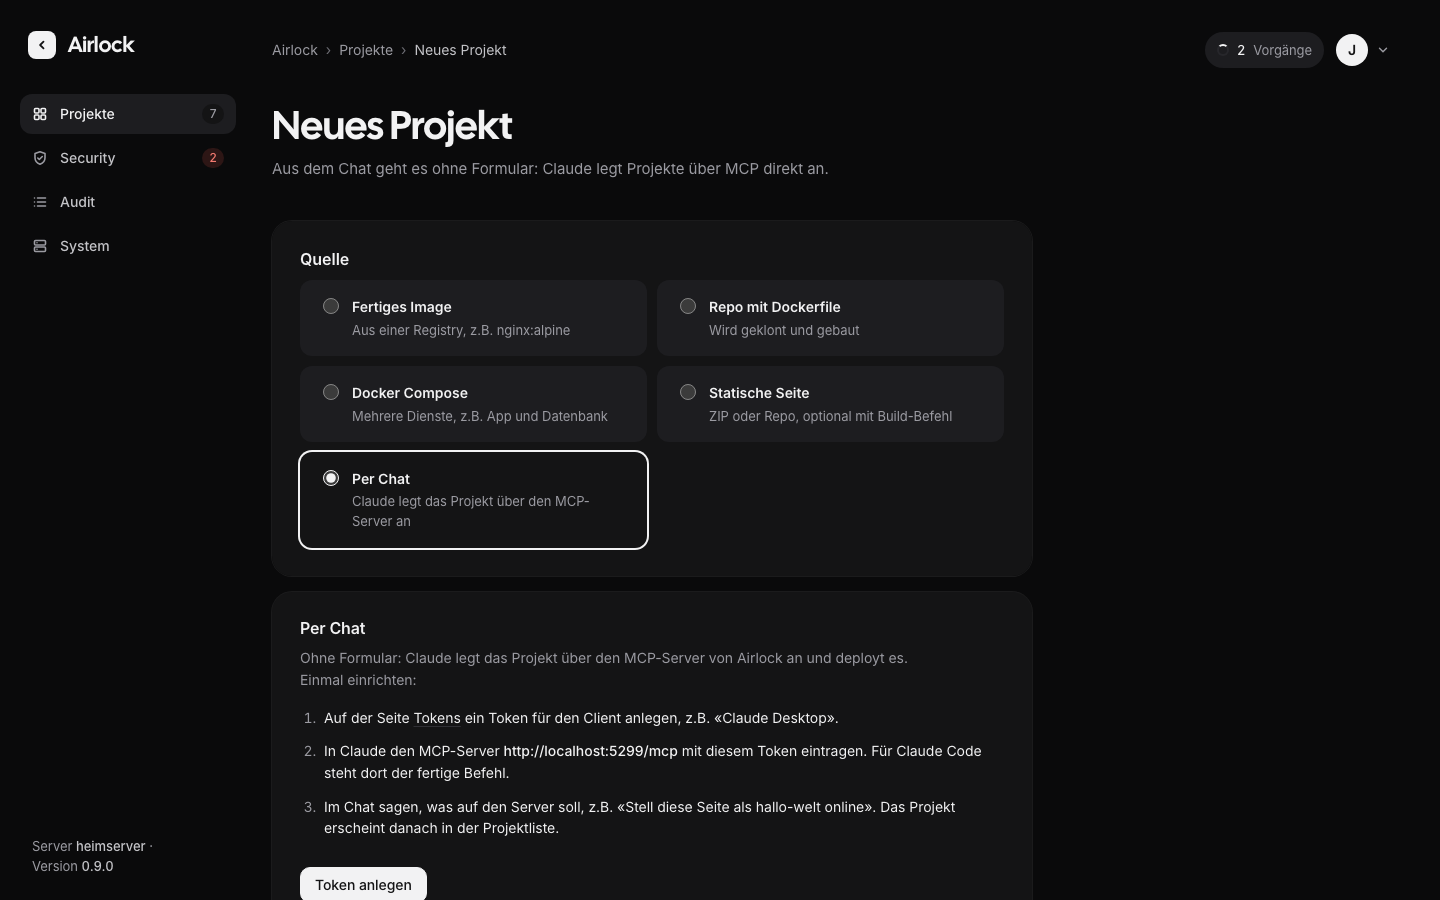
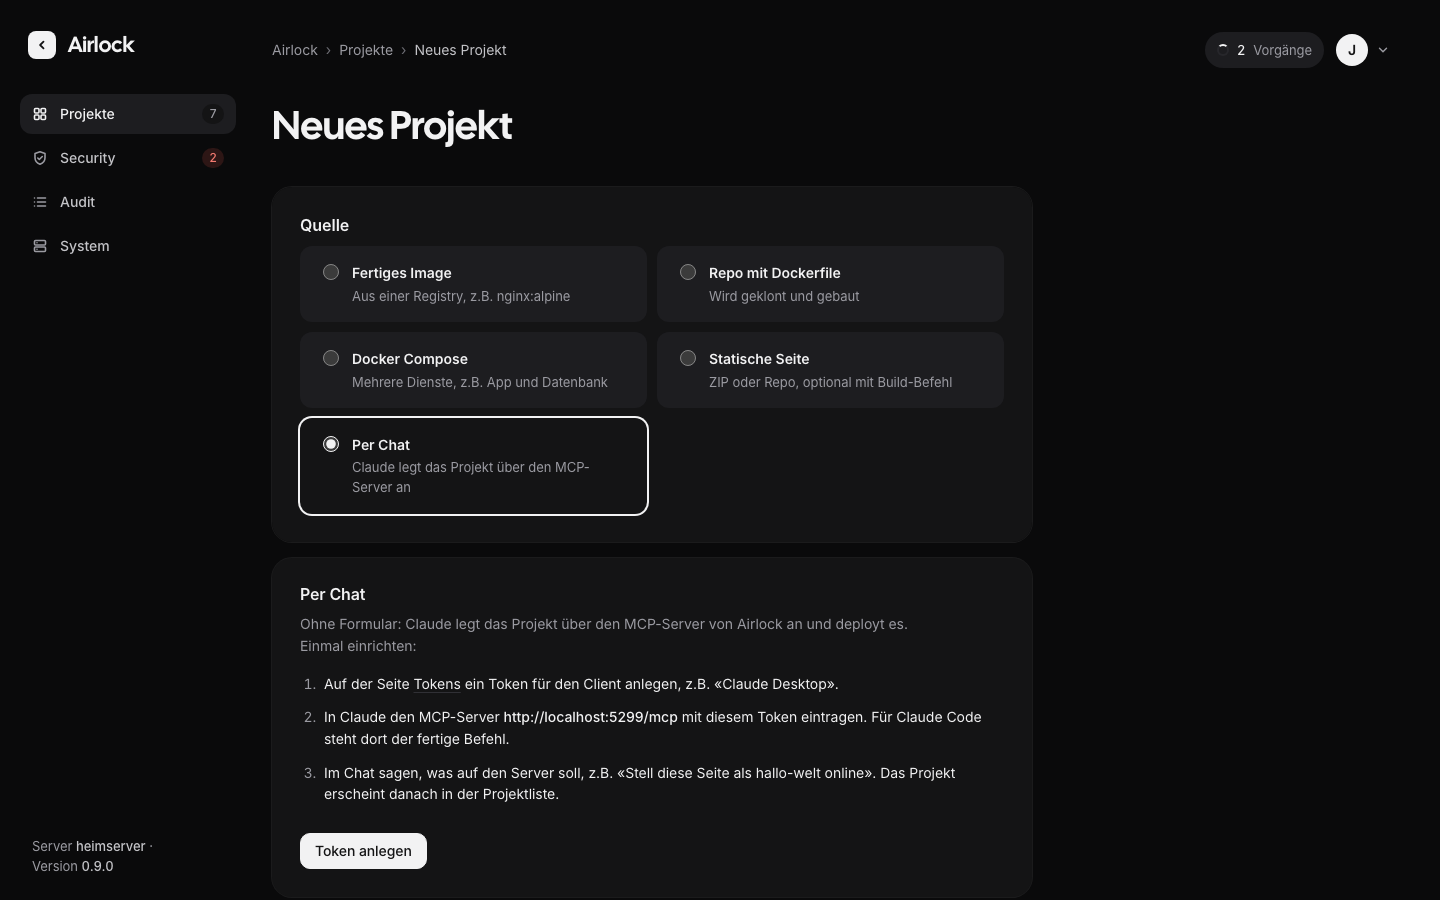
UI-Qualität 5: Befunde aus dem Gutachten
- Fortschritt nach dem Anlegen nicht erneut nach Neuladen/Zurück; Text beim ersten Deploy
- Prüfung beim Verlassen nicht beim Wechsel auf einen Knopf
- Pfadfelder mit passenden Beispielen in der Meldung
- Kollision auch über belegte Adressen; 409 bei gleichzeitigem Anlegen; «name-preview» reserviert
- Vorschau ohne Live-Region, angesagt nur Kollisionen; keine veraltete Antwort
- «Per Chat» ohne doppelten Einleitungssatz

Geänderte Bilder (hell und dunkel): neues-projekt-chat (Einleitungssatz entfällt)

diff --git a/packages/web/src/pages/NewProject.tsx b/packages/web/src/pages/NewProject.tsx
@@ -46,33 +46,51 @@ function useNamePreview(name: string) {
   return useQuery({
     queryKey: ['name-preview', debounced],
     queryFn: () => api.namePreview(debounced),
-    enabled: debounced !== '' && slugify(debounced) !== '',
-    staleTime: 10_000,
+    // slugify fällt nie auf leer zurück («???» → «projekt», wie beim Anlegen); geprüft wird nur der leere Name
+    enabled: debounced !== '',
+    // Kurz frisch halten: ein anderes Projekt (z.B. von Claude) kann den Namen inzwischen belegen
+    staleTime: 2_000,
     placeholderData: (prev) => prev,
   })
 }
 
-/** Unter dem Namen: Kurzname, Adresse, und ob der Kurzname schon belegt ist */
+/**
+ * Unter dem Namen: Kurzname, Adresse, und ob der Kurzname schon belegt ist.
+ * Der Hinweis selbst ist keine Live-Region (er gehört per aria-describedby zum
+ * Feld); angesagt wird nur eine Kollision, in einer eigenen, immer
+ * vorhandenen Region.
+ */
 function NamePreview({ name, id }: { name: string; id: string }) {
   const q = useNamePreview(name)
-  const p = q.data?.preview
-  if (!name.trim() || !slugify(name)) return <p className="hint" id={id}>Frei wählbar; daraus entstehen Kurzname und Adresse.</p>
-  if (!p) return <p className="hint" id={id}>Kurzname <code>{slugify(name)}</code> …</p>
-  const url = p.urls[0]
+  // Solange die Antwort zum alten Namen gehört: nicht als Ergebnis zeigen
+  const p = q.isPlaceholderData || q.data?.preview.wanted !== slugify(name.trim()) ? null : q.data?.preview
+  const conflict = p && (p.takenBy || p.reserved || p.hostTaken)
+  const said = !p ? '' : p.reserved ? `Kurzname ${p.wanted} ist reserviert, das Projekt bekommt ${p.slug}.`
+    : p.takenBy ? `Kurzname ${p.wanted} hat schon ${p.takenBy.name}, das Projekt bekommt ${p.slug}.`
+    : p.hostTaken ? `Die Adresse von ${p.wanted} ist schon belegt, das Projekt bekommt ${p.slug}.` : ''
+  const url = p?.urls[0]
   return (
-    <div className="hint name-preview" id={id} role="status">
-      {p.takenBy || p.reserved ? (
-        <p>
-          <IconWarn /> {p.reserved
-            ? <>Der Kurzname <code>{p.wanted}</code> ist für Airlock reserviert.</>
-            : <>Den Kurznamen <code>{p.wanted}</code> hat schon <Link to={`/projekte/${p.takenBy!.id}`}>{p.takenBy!.name}</Link>.</>}
-          {' '}{p.slug ? <>Dieses Projekt bekommt <code>{p.slug}</code> – oder wähle einen anderen Namen.</> : 'Wähle einen anderen Namen.'}
-        </p>
-      ) : (
-        <p>Kurzname <code>{p.slug}</code></p>
-      )}
-      {url && <p>Adresse <code>{url.replace(/^https?:\/\//, '')}</code>{p.urls.length > 1 && <span className="muted"> · auch {p.urls.slice(1).map((u) => u.replace(/^https?:\/\//, '')).join(', ')}</span>}</p>}
-    </div>
+    <>
+      <p className="sr-only" role="status">{said}</p>
+      {!name.trim() ? <p className="hint" id={id}>Frei wählbar; daraus entstehen Kurzname und Adresse.</p>
+        : !p ? <p className="hint" id={id}>Kurzname <code>{slugify(name)}</code> …</p>
+        : (
+          <div className="hint name-preview" id={id}>
+            {conflict ? (
+              <p>
+                <IconWarn /> {p.reserved
+                  ? <>Der Kurzname <code>{p.wanted}</code> ist für Airlock reserviert.</>
+                  : p.takenBy ? <>Den Kurznamen <code>{p.wanted}</code> hat schon <Link to={`/projekte/${p.takenBy.id}`}>{p.takenBy.name}</Link>.</>
+                  : <>Die Adresse von <code>{p.wanted}</code> trägt schon ein anderes Projekt.</>}
+                {' '}{p.slug ? <>Dieses Projekt bekommt <code>{p.slug}</code> – oder wähle einen anderen Namen.</> : 'Wähle einen anderen Namen.'}
+              </p>
+            ) : (
+              <p>Kurzname <code>{p.slug}</code></p>
+            )}
+            {url && <p>Adresse <code>{url.replace(/^https?:\/\//, '')}</code>{p.urls.length > 1 && <span className="muted"> · auch {p.urls.slice(1).map((u) => u.replace(/^https?:\/\//, '')).join(', ')}</span>}</p>}
+          </div>
+        )}
+    </>
   )
 }
 
@@ -169,7 +187,8 @@ export function NewProject() {
   return (
     <section className="page page-narrow">
       <PageHead crumbs={[{ label: 'Projekte', to: '/projekte' }, { label: 'Neues Projekt' }]} title="Neues Projekt">
-        <p className="lede">Aus dem Chat geht es ohne Formular: Claude legt Projekte über MCP direkt an.</p>
+        {/* Bei «Per Chat» steht dasselbe im Abschnitt darunter */}
+        {kind !== 'chat' && <p className="lede">Aus dem Chat geht es ohne Formular: Claude legt Projekte über MCP direkt an.</p>}
       </PageHead>
 
       <form onSubmit={submit} className="form" noValidate ref={form.formRef}>

diff --git a/packages/shared/src/index.ts b/packages/shared/src/index.ts
@@ -24,7 +24,8 @@ export const UI_HOST_LABEL = 'deployer'
  * (sonst hätte ein Projekt sie überdeckt – Fehler aus M1), "airlock" ihre
  * künftige Adresse, "ext-scan" das Netz für Scans externer Ziele (M6).
  */
-export const RESERVED_SLUGS = ['deployer', 'airlock', 'ext-scan'] as const
+// 'name-preview': GET /projects/name-preview würde sonst ein Projekt dieses Namens verdecken
+export const RESERVED_SLUGS = ['deployer', 'airlock', 'ext-scan', 'name-preview'] as const
 
 export const slugSchema = z
   .string()
@@ -118,13 +119,22 @@ export const gitRefSchema = z
   .regex(/^[A-Za-z0-9._][A-Za-z0-9._/-]*$/, 'Nur Buchstaben, Ziffern und . _ / -, nicht mit - beginnend, z.B. main oder v1.2.0')
   .refine((v) => !v.includes('..'), 'Zwei Punkte hintereinander sind nicht erlaubt, z.B. v1.2.0 statt v1..2')
 
-/** Pfad innerhalb eines Repos; ob er drin bleibt, prüft der Server am aufgelösten Pfad. */
-export const repoPathSchema = z
+/**
+ * Pfad innerhalb eines Repos; ob er drin bleibt, prüft der Server am aufgelösten Pfad.
+ * UI-Qualität 5: die Beispiele der Meldungen passen zum Feld (wie Platzhalter und Hinweis).
+ */
+const repoPath = (what: string, example: string) => z
   .string()
   .trim()
-  .min(1, 'Gib einen Pfad im Repo an, z.B. Dockerfile oder app/compose.yaml')
+  .min(1, `Gib ${what} an, z.B. ${example}`)
   .max(512, 'Höchstens 512 Zeichen')
-  .refine((v) => !v.includes('\0') && !v.startsWith('/') && !v.includes('\\'), 'Gib den Pfad relativ zum Repo an, ohne / am Anfang, z.B. docker/Dockerfile')
+  .refine((v) => !v.includes('\0') && !v.startsWith('/') && !v.includes('\\'), `Gib den Pfad relativ zum Repo an, ohne / am Anfang, z.B. ${example}`)
+
+export const repoPathSchema = repoPath('einen Pfad im Repo', 'docker/Dockerfile')
+const dockerfilePathSchema = repoPath('den Pfad des Dockerfiles', 'Dockerfile oder docker/Dockerfile')
+const contextPathSchema = repoPath('den Ordner, aus dem gebaut wird', '. (die Wurzel) oder app')
+const composePathSchema = repoPath('den Pfad der compose.yaml', 'compose.yaml oder app/compose.yaml')
+const outputDirSchema = repoPath('den Ausgabeordner', 'dist')
 
 export const staticSourceSchema = z.object({
   type: z.literal('static'),
@@ -134,15 +144,15 @@ export const staticSourceSchema = z.object({
   repoUrl: repoUrlSchema.optional(),
   ref: gitRefSchema.optional(),
   buildCommand: z.string().trim().min(1, 'Gib einen Befehl an, z.B. npm run build – oder lass das Feld leer').max(500, 'Höchstens 500 Zeichen').optional(),
-  outputDir: repoPathSchema.optional(),
+  outputDir: outputDirSchema.optional(),
 })
 
 export const dockerfileSourceSchema = z.object({
   type: z.literal('dockerfile'),
   repoUrl: repoUrlSchema,
   ref: gitRefSchema.optional(),
-  dockerfile: repoPathSchema.default('Dockerfile'),
-  context: repoPathSchema.default('.'),
+  dockerfile: dockerfilePathSchema.default('Dockerfile'),
+  context: contextPathSchema.default('.'),
 })
 
 export const COMPOSE_SERVICE_RE = /^[a-zA-Z0-9][a-zA-Z0-9_.-]{0,62}$/
@@ -152,7 +162,7 @@ export const composeSourceSchema = z.object({
   /** Entweder ein Repo ... */
   repoUrl: repoUrlSchema.optional(),
   ref: gitRefSchema.optional(),
-  composePath: repoPathSchema.default('compose.yaml'),
+  composePath: composePathSchema.default('compose.yaml'),
   /** ... oder eine hochgeladene compose.yaml. */
   uploadId: z.string().uuid().optional(),
   /** Dienst, der den Web-Verkehr bekommt. */
@@ -173,7 +183,7 @@ export const filesSourceSchema = z.object({
   webService: z.string().regex(COMPOSE_SERVICE_RE, 'Ungültiger Dienstname').optional(),
   /** Bei statischer Seite mit Build: Befehl (Standard "npm run build") und Ausgabe. */
   buildCommand: z.string().min(1).max(500).optional(),
-  outputDir: repoPathSchema.optional(),
+  outputDir: outputDirSchema.optional(),
 })
 
 export const fileInputSchema = z.object({
@@ -321,6 +331,8 @@ export interface NamePreviewDto {
   takenBy: { id: string; name: string } | null
   /** Für Airlock selbst reserviert */
   reserved: boolean
+  /** Die Adresse des gewünschten Kurznamens trägt schon ein anderes Projekt (eigene Subdomain) */
+  hostTaken?: boolean
   /** Interne Adresse (Tailnet/LAN) */
   host: string | null
   urls: string[]

diff --git a/packages/api/src/domain/projects.ts b/packages/api/src/domain/projects.ts
@@ -140,10 +140,14 @@ async function freeSlug(wanted: string): Promise<string> {
     ...RESERVED_SLUGS,
     ...(await db.select({ slug: schema.projects.slug }).from(schema.projects)).map((r) => r.slug),
   ])
-  if (!taken.has(wanted)) return wanted
+  // UI-Qualität 5: auch belegte Adressen zählen (über MCP kann ein Projekt eine fremde Subdomain tragen);
+  // sonst scheiterte setRoutes nach dem Anlegen mit 409 und liesse ein halbes Projekt zurück
+  const hosts = new Set((await db.select({ hostname: schema.routes.hostname }).from(schema.routes)).map((r) => r.hostname))
+  const free = (s: string) => !taken.has(s) && !hosts.has(primaryHost(s))
+  if (free(wanted)) return wanted
   for (let i = 2; i < 100; i++) {
     const candidate = `${wanted.slice(0, 37)}-${i}`
-    if (!taken.has(candidate)) return candidate
+    if (free(candidate)) return candidate
   }
   throw conflict(`Kein freier Slug für "${wanted}" gefunden`)
 }
@@ -154,13 +158,16 @@ async function freeSlug(wanted: string): Promise<string> {
  * es «-2» usw., wie beim Anlegen). Ändert nichts.
  */
 export async function previewName(name: string): Promise<NamePreviewDto> {
+  // slugify fällt bei Namen ohne Buchstaben auf «projekt» zurück – genau wie beim Anlegen
   const wanted = slugify(name)
-  if (!wanted) return { wanted: '', slug: '', takenBy: null, reserved: false, host: null, urls: [] }
   const owner = (await db.select({ id: schema.projects.id, name: schema.projects.name }).from(schema.projects).where(eq(schema.projects.slug, wanted)).limit(1))[0] ?? null
   const reserved = (RESERVED_SLUGS as readonly string[]).includes(wanted)
+  // Dieselbe Funktion wie createProject: Vorschau und Anlegen wählen denselben Kurznamen
   const slug = await freeSlug(wanted).catch(() => '')
   const host = slug ? primaryHost(slug) : null
-  return { wanted, slug, takenBy: owner, reserved, host, urls: host ? urlsFor(host, aliasHosts(slug)) : [] }
+  // Weder Kurzname noch reserviert, aber trotzdem ausgewichen: die Adresse ist schon belegt
+  const hostTaken = !owner && !reserved && slug !== '' && slug !== wanted
+  return { wanted, slug, takenBy: owner, reserved, hostTaken, host, urls: host ? urlsFor(host, aliasHosts(slug)) : [] }
 }
 
 export async function createProject(input: CreateProjectInput, actor: string): Promise<Row> {
@@ -186,6 +193,11 @@ export async function createProject(input: CreateProjectInput, actor: string): P
       desiredState: 'stopped',
     })
     .returning()
+    .catch((err: unknown) => {
+      // Gleichzeitig angelegt (z.B. von Claude), Kurzname inzwischen vergeben: verständlich statt «Interner Fehler»
+      if ((err as { code?: string }).code === '23505') throw conflict(`Der Kurzname «${slug}» wurde gerade vergeben – bitte noch einmal anlegen`)
+      throw err
+    })
 
   const project = inserted[0]!
   if (input.env.length) await replaceEnv(project.id, input.env)

diff --git a/packages/web/src/pages/ProjectDetail.tsx b/packages/web/src/pages/ProjectDetail.tsx
@@ -46,6 +46,11 @@ export function ProjectDetail() {
   // UI-Qualität 5: direkt nach «Anlegen und deployen» läuft der Fortschritt des ersten Deploys
   const location = useLocation()
   const [watching, setWatching] = useState<string | null>(() => (location.state as { watch?: string } | null)?.watch ?? null)
+  // Einmal gelesen, dann aus dem Verlauf entfernen: sonst käme der Fortschritt nach Neuladen oder
+  // «Zurück» wieder (mit falscher Ansage für einen längst ersetzten Deploy)
+  useEffect(() => {
+    if ((location.state as { watch?: string } | null)?.watch) navigate(`${location.pathname}${location.search}`, { replace: true, state: null })
+  }, []) // eslint-disable-line react-hooks/exhaustive-deps
   const [announce, setAnnounce] = useState('')
   // «Löschen …» aus dem Menü: zur Rückfrage (Kurzname eintippen) in der Gefahrenzone der Einstellungen
   const [deleteRequested, setDeleteRequested] = useState(false)
@@ -212,9 +217,11 @@ export function ProjectDetail() {
           {watching && (
             <DeployProgress
               deploymentId={watching}
+              hasPrevious={Boolean(p.activeDeployment)}
               onFinished={(ok) => {
                 // Ende ansagen über die Region der Seite: der Fortschritt verschwindet gleich danach
-                setAnnounce(ok ? 'Deploy fertig. Der neue Stand ist live.' : 'Deploy fehlgeschlagen. Die vorherige Fassung läuft weiter.')
+                setAnnounce(ok ? 'Deploy fertig. Der neue Stand ist live.'
+                  : p.activeDeployment ? 'Deploy fehlgeschlagen. Die vorherige Fassung läuft weiter.' : 'Deploy fehlgeschlagen. Es läuft noch keine Fassung.')
                 setWatching(null)
                 void qc.invalidateQueries({ queryKey: ['project', id] })
               }}

diff --git a/packages/web/src/components/DeployProgress.tsx b/packages/web/src/components/DeployProgress.tsx
@@ -12,14 +12,20 @@ const STEPS = [
 export function DeployProgress({
   deploymentId,
   onFinished,
+  hasPrevious = true,
 }: {
   deploymentId: string
   onFinished?: (ok: boolean) => void
+  /** Läuft eine frühere Fassung weiter, wenn dieser Deploy scheitert? (nicht beim ersten Deploy) */
+  hasPrevious?: boolean
 }) {
   const [status, setStatus] = useState<string>('pending')
   const [lines, setLines] = useState<string[]>([])
   const [done, setDone] = useState<{ ok: boolean } | null>(null)
   const logRef = useRef<HTMLPreElement>(null)
+  // Immer den aktuellen Rückruf, ohne neu zu verbinden (sonst begänne der Strom bei jedem Rendern neu)
+  const finished = useRef(onFinished)
+  finished.current = onFinished
 
   useEffect(() => {
     setLines([])
@@ -29,11 +35,11 @@ export function DeployProgress({
       if (e.type === 'status' && e.status) setStatus(e.status)
       if (e.type === 'done') {
         setDone({ ok: Boolean(e.ok) })
-        onFinished?.(Boolean(e.ok))
+        finished.current?.(Boolean(e.ok))
       }
     })
     return stop
-  }, [deploymentId, onFinished])
+  }, [deploymentId])
 
   useEffect(() => {
     logRef.current?.scrollTo({ top: logRef.current.scrollHeight })
@@ -64,7 +70,7 @@ export function DeployProgress({
       </p>
       {failed && (
         <p role="alert" className="error">
-          Der Deploy ist fehlgeschlagen. Die vorherige Fassung läuft weiter.
+          {hasPrevious ? 'Der Deploy ist fehlgeschlagen. Die vorherige Fassung läuft weiter.' : 'Der Deploy ist fehlgeschlagen. Es läuft noch keine Fassung.'}
         </p>
       )}
 

diff --git a/packages/web/src/lib/form.ts b/packages/web/src/lib/form.ts
@@ -129,7 +129,13 @@ export function useFormErrors<T>(opts: {
       'aria-invalid': err ? (true as const) : undefined,
       'aria-describedby': [err ? `${id}-error` : null, describedBy].filter(Boolean).join(' ') || undefined,
       onInput: () => { touched.current.add(name) },
-      onBlur: () => validateField(name),
+      // Geht der Fokus auf einen Knopf (Absenden, Abbrechen), nicht prüfen: die Meldung würde
+      // das Layout zwischen Drücken und Loslassen verschieben und den Klick verlieren lassen.
+      // Absenden prüft ohnehin alles.
+      onBlur: (ev: { relatedTarget: EventTarget | null }) => {
+        if (ev.relatedTarget instanceof Element && ev.relatedTarget.closest('button')) return
+        validateField(name)
+      },
     }
   }
 

diff --git a/docs/MILESTONE-UI-QUALITAET.md b/docs/MILESTONE-UI-QUALITAET.md
@@ -257,6 +257,22 @@ Umsetzung:
 - Nach «Anlegen und deployen» zeigt die Projektseite gleich den Fortschritt des ersten Deploys.
 - Szenen: `neues-projekt-vorschau` (Kollision, Meldung beim Verlassen), `neues-projekt-chat`.
 
+Befunde aus dem Gutachten (behoben):
+- Der Fortschritt nach dem Anlegen kam nach Neuladen oder «Zurück» wieder (Router-Zustand im
+  Verlauf): wird nach dem Lesen entfernt. Beim ersten Deploy heisst es nicht mehr «die vorherige
+  Fassung läuft weiter», sondern «Es läuft noch keine Fassung». Der Fortschritt verbindet nicht mehr
+  bei jedem Rendern neu.
+- Prüfung beim Verlassen nicht, wenn der Fokus auf einen Knopf geht (die Meldung verschob sonst
+  den Knopf zwischen Drücken und Loslassen; Absenden prüft ohnehin alles).
+- Pfadfelder mit eigenen Beispielen in der Meldung (Dockerfile, Build-Kontext «.», compose.yaml,
+  Ausgabeordner «dist») statt einer Meldung für alle.
+- Kollision auch über belegte Adressen (eigene Subdomain eines anderen Projekts), in derselben
+  Funktion für Vorschau und Anlegen; gleichzeitiges Anlegen gibt eine verständliche Meldung (409).
+  «name-preview» ist als Kurzname reserviert.
+- Screenreader: die Vorschau ist keine Live-Region mehr; angesagt wird nur eine Kollision. Die
+  Vorschau zeigt keine Antwort zu einem alten Namen.
+- «Per Chat»: kein doppelter Einleitungssatz.
+
 ### 6 – Informationsarchitektur
 - Seitenleiste: Projekte, Security, Audit, System. Domains → System › Cloudflare & HTTPS, Externe
   Ziele → Reiter unter Security; `/domains` und `/extern` leiten weiter.
